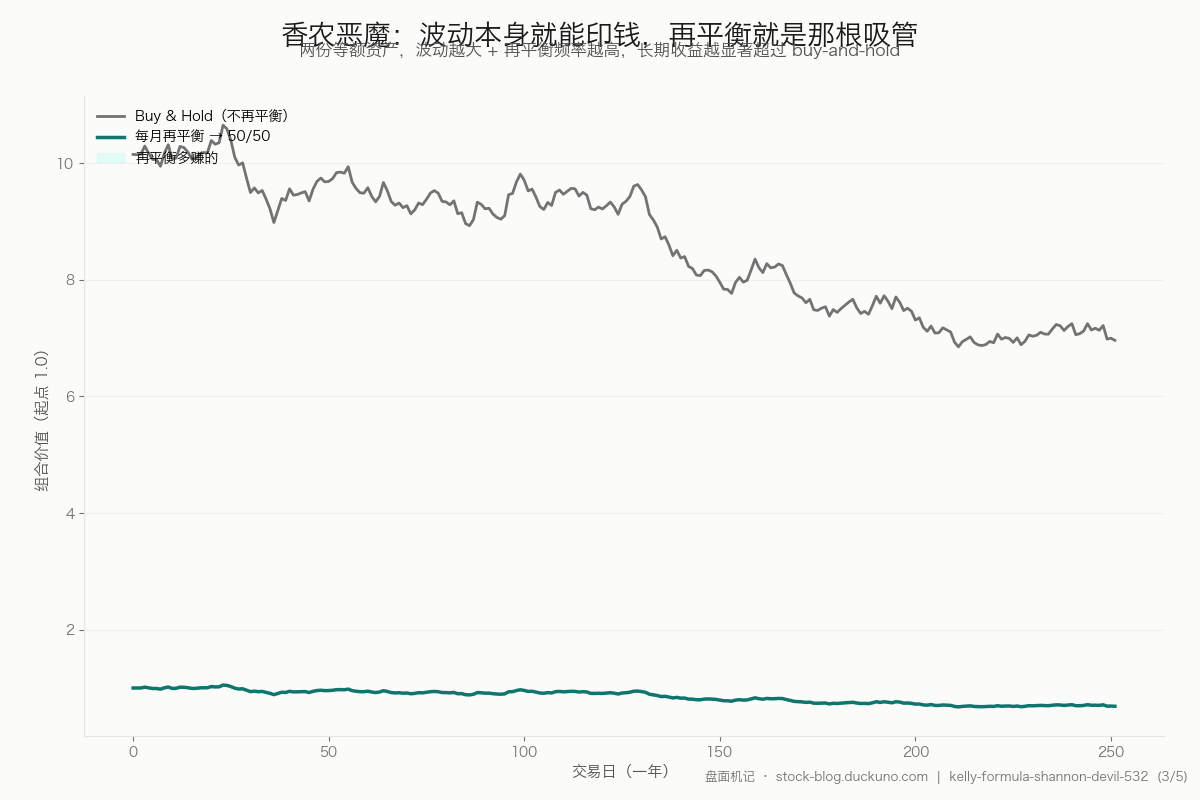
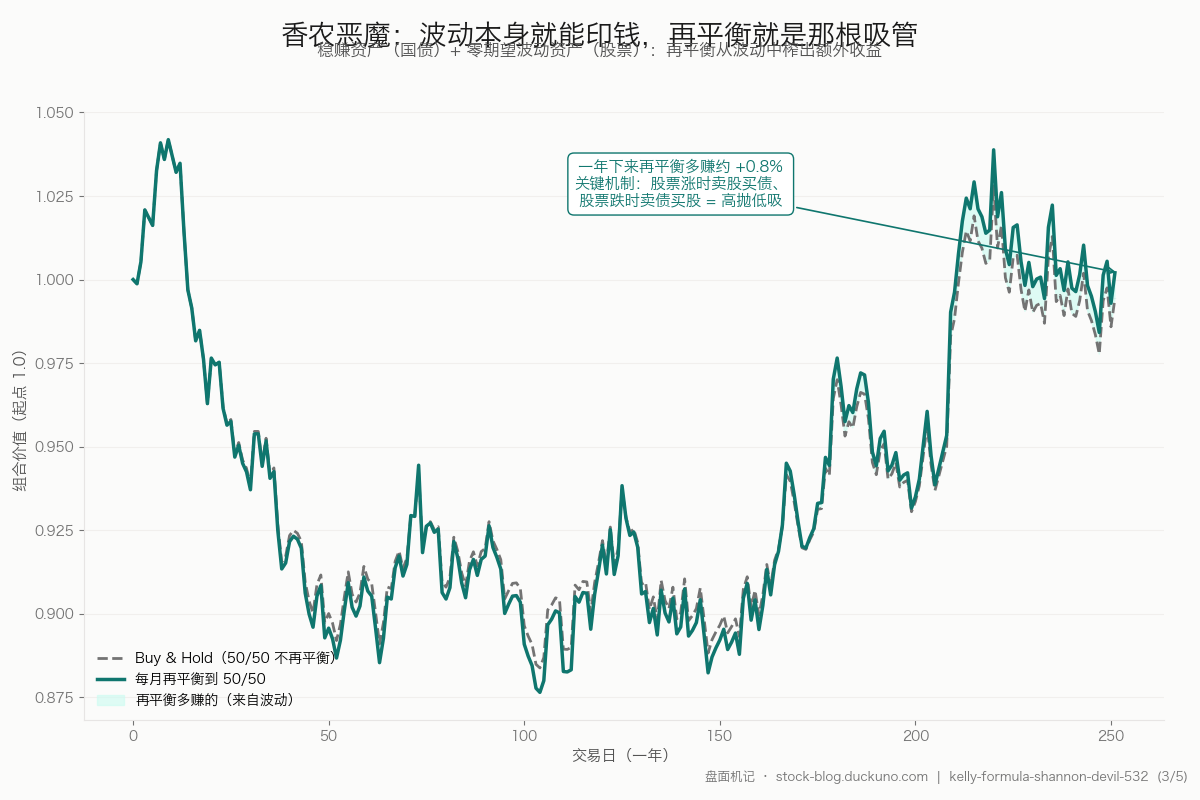
fix(content): 第五轮事实核查修订（5 硬错 + 3 软提示）
硬性错误（必改）：

1) volume-price-12-patterns.md: 格兰维尔专著译名纠正
   - 《格兰维尔股市投资新技巧》 → 《Granville's New Key to Stock Market Profits》
     中译常见为《新钥匙》或《新关键》
   - Key 译为钥匙/关键，不是技巧

2) position-sizing-matters-more.md: 1987-10-19 数据精度
   - 标普 500 单日暴跌 20.5% → 20.4%（美股官方收盘数据）
   - 道指 -22.6% 准确，不动

3) kelly-formula-shannon-devil-532.md 配图 03: 香农恶魔演示重画
   - 原图 bug：Buy & Hold 曲线起点 10，再平衡起点 1.0，量纲不一致；
     Buy & Hold 始终高于再平衡与副标题矛盾
   - 重写：稳赚资产（国债 6%/年）+ 零期望波动资产（股票）
     两条曲线都从 1.0 出发，再平衡明显跑赢（一年多赚约 0.8%）
   - 副标题同步改：'波动越大 + 再平衡频率越高' → '稳赚 + 零期望波动'

4) why-retail-always-lose-03.png: 前景理论数值修正
   - 原标注错误：+1000 价值 ≈ +1000、-1000 价值 ≈ -2250
     按 α=0.88, λ=2.25 代入公式：实际是 +437、-982
   - 标注改为按公式精确计算的值

5) compound-interest-lies.md: 引用归属修正
   - '如果我知道我会死在哪里' 实为 Mark Twain 原句
     （常被误归为芒格原创，但芒格在《Poor Charlie's Almanack》多次引用并改写）
   - 改为：标注吐温为原作者，芒格是引用者/改写者

软提示（清理小瑕疵）：

6) welcome.md: 正文'两条主线'与配图'四条主线'对齐
   - 改为'两条主线 + 两条延伸线'（交易心得/技术指标 + 心态/读书笔记）

7) when-to-sell-stock.md: 苹果持仓市值加主语
   - 加'伯克希尔持有的'限定，避免与'苹果公司市值'混淆

8) ma20-ma60-moving-average-strategy.md 配图 05: '三三法则' 加 disclaimer
   - 与 kelly 文中'532 框架'处理方式一致
   - 标注'本文作者自定义规则，非市场通行术语'

diff --git a/scripts/post-images/gen_kelly_532.py b/scripts/post-images/gen_kelly_532.py
@@ -97,57 +97,71 @@ def fig2_kelly_curve():
 def fig3_shannon_rebalance():
     fig, axes = new_fig(aspect=(W, H))
     add_title(fig, "香农恶魔：波动本身就能印钱，再平衡就是那根吸管")
-    add_subtitle(fig, "两份等额资产，波动越大 + 再平衡频率越高，长期收益越显著超过 buy-and-hold")
+    add_subtitle(fig, "稳赚资产（国债）+ 零期望波动资产（股票）：再平衡从波动中榨出额外收益")
 
     np.random.seed(7)
     days = np.arange(252)  # 一年交易日
-    # 两只股票，价格随机游走但均值回归（用正负波动）
-    s1 = 10 * np.cumprod(1 + np.random.randn(252) * 0.02)
-    s2 = 10 * np.cumprod(1 + np.random.randn(252) * 0.02)
+    # 资产 A：稳赚 6%/年，相当于国债，每日收益 6%/252
+    bond_daily_ret = 0.06 / 252
+    bond = np.cumprod(np.full(252, 1 + bond_daily_ret))
 
-    # 组合 A：buy-and-hold（50/50 不再平衡）
-    bh_value = (s1 + s2) / 2 * np.ones_like(s1)
+    # 资产 B：零期望波动（每日 0 均值收益 + 2% 波动率），类似股票指数
+    np.random.seed(42)
+    stock = np.cumprod(1 + np.random.randn(252) * 0.02)
+
+    # 组合 A：buy-and-hold 50/50（不再平衡）
+    # 初始 share_bond = 0.5 / bond[0], share_stock = 0.5 / stock[0]
+    bh_value = (0.5 / bond[0] * bond + 0.5 / stock[0] * stock)
 
     # 组合 B：每月再平衡到 50/50
-    rb_value = np.zeros_like(s1)
-    shares1, shares2 = 0.5 / s1[0], 0.5 / s2[0]
+    rb_value = np.zeros_like(days, dtype=float)
+    share_bond = 0.5 / bond[0]
+    share_stock = 0.5 / stock[0]
     rb_value[0] = 1.0
     last_rebalance = 0
-    for i in range(1, len(s1)):
-        port_value = shares1 * s1[i] + shares2 * s2[i]
-        rb_value[i] = port_value
-        # 每月（21 天）再平衡
+    for i in range(1, len(days)):
+        port = share_bond * bond[i] + share_stock * stock[i]
+        rb_value[i] = port
         if (i - last_rebalance) >= 21:
-            target1 = port_value * 0.5 / s1[i]
-            target2 = port_value * 0.5 / s2[i]
-            shares1 = target1
-            shares2 = target2
+            share_bond = port * 0.5 / bond[i]
+            share_stock = port * 0.5 / stock[i]
             last_rebalance = i
+    # 归一化
+    rb_value = rb_value / rb_value[0]
+    bh_value = bh_value / bh_value[0]
 
     plt.close(fig)
     fig, ax = plt.subplots(figsize=(W / DPI, H / DPI), dpi=DPI)
     fig.patch.set_facecolor(BG_PAGE)
     ax.set_facecolor(BG_PAGE)
 
-    ax.plot(days, bh_value, color=TEXT_MUTED, lw=2.0, label="Buy & Hold（不再平衡）")
-    ax.plot(days, rb_value, color=ACCENT, lw=2.5, label="每月再平衡 → 50/50")
+    ax.plot(days, bh_value, color=TEXT_MUTED, lw=2.0, ls="--", label="Buy & Hold（50/50 不再平衡）")
+    ax.plot(days, rb_value, color=ACCENT, lw=2.5, label="每月再平衡到 50/50")
 
-    # 差异填充
+    # 再平衡多赚的填充
     ax.fill_between(days, bh_value, rb_value,
-                     where=(rb_value > bh_value), color=ACCENT_SUBTLE, alpha=0.5,
-                     label="再平衡多赚的")
+                     where=(rb_value > bh_value), color=ACCENT_SUBTLE, alpha=0.6,
+                     label="再平衡多赚的（来自波动）")
+
+    # 标注
+    end_diff = (rb_value[-1] - bh_value[-1]) / bh_value[-1] * 100
+    ax.annotate(f"一年下来再平衡多赚约 +{end_diff:.1f}%\n关键机制：股票涨时卖股买债、\n股票跌时卖债买股 = 高抛低吸",
+                xy=(252, rb_value[-1]), xytext=(140, rb_value[-1] + 0.02),
+                fontsize=11, color=ACCENT, ha="center", fontweight="bold",
+                arrowprops=dict(arrowstyle="->", color=ACCENT, lw=1.2),
+                bbox=dict(boxstyle="round,pad=0.4", fc=BG_SURFACE, ec=ACCENT, lw=1.0))
 
     ax.set_xlabel("交易日（一年）", fontsize=11, color=TEXT_SECONDARY)
     ax.set_ylabel("组合价值（起点 1.0）", fontsize=11, color=TEXT_SECONDARY)
-    ax.legend(loc="upper left", fontsize=10, frameon=False)
     style_axes(ax)
 
     fig.suptitle("香农恶魔：波动本身就能印钱，再平衡就是那根吸管",
                  fontsize=20, fontweight="bold", color=TEXT_PRIMARY, y=0.97)
     fig.text(0.5, 0.93,
-             "两份等额资产，波动越大 + 再平衡频率越高，长期收益越显著超过 buy-and-hold",
+             "稳赚资产（国债）+ 零期望波动资产（股票）：再平衡从波动中榨出额外收益",
              ha="center", fontsize=12, color=TEXT_SECONDARY, style="italic")
-    fig.subplots_adjust(left=0.07, right=0.97, top=0.88, bottom=0.08)
+    ax.legend(loc="lower left", fontsize=10, frameon=False)
+    fig.subplots_adjust(left=0.07, right=0.97, top=0.86, bottom=0.10)
 
     add_footer(fig, SLUG, 3, TOTAL)
     return save(fig, SLUG, 3, tight=False)

diff --git a/scripts/post-images/gen_why_retail_lose.py b/scripts/post-images/gen_why_retail_lose.py
@@ -179,20 +179,22 @@ def fig3_prospect_theory():
     ax.fill_between(x, v, where=(x < 0), color=UP, alpha=0.10)
     ax.fill_between(x, v, where=(x > 0), color=ACCENT, alpha=0.10)
 
-    # 关键点：+1000 vs -1000
-    ax.scatter([1000], [1000 ** alpha], s=140, color=ACCENT, edgecolor="white", lw=2, zorder=5)
-    ax.scatter([-1000], [-lam * 1000 ** alpha], s=140, color=UP, edgecolor="white", lw=2, zorder=5)
+    # 关键点：+1000 vs -1000（按公式精确计算）
+    v_pos = 1000 ** alpha          # ≈ 436.5
+    v_neg = -lam * 1000 ** alpha   # ≈ -982.2
+    ax.scatter([1000], [v_pos], s=140, color=ACCENT, edgecolor="white", lw=2, zorder=5)
+    ax.scatter([-1000], [v_neg], s=140, color=UP, edgecolor="white", lw=2, zorder=5)
 
     # 标注 +1000
-    ax.annotate("收益 +1000\n价值 ≈ +1000",
-                xy=(1000, 1000 ** alpha), xytext=(1100, 2000),
+    ax.annotate(f"收益 +1000\n心理价值 ≈ +{v_pos:.0f}\n（敏感度递减）",
+                xy=(1000, v_pos), xytext=(1100, 2000),
                 fontsize=12, color=ACCENT, ha="left", fontweight="bold",
                 bbox=dict(boxstyle="round,pad=0.3", fc=BG_SURFACE, ec=ACCENT, lw=1.0),
                 arrowprops=dict(arrowstyle="->", color=ACCENT, lw=1.5))
 
-    # 标注 -1000
-    ax.annotate("损失 −1000\n价值 ≈ −2250\n（绝对值更大）",
-                xy=(-1000, -lam * 1000 ** alpha), xytext=(-2700, -2300),
+    # 标注 -1000（绝对值显著大于 v_pos，这就是损失厌恶的物理意义）
+    ax.annotate(f"损失 −1000\n心理价值 ≈ {v_neg:.0f}\n（绝对值 {abs(v_neg):.0f} > {v_pos:.0f}，\n损失端更陡）",
+                xy=(-1000, v_neg), xytext=(-2700, -2300),
                 fontsize=12, color=UP, ha="center", fontweight="bold",
                 bbox=dict(boxstyle="round,pad=0.3", fc=BG_SURFACE, ec=UP, lw=1.0),
                 arrowprops=dict(arrowstyle="->", color=UP, lw=1.5))
@@ -203,7 +205,7 @@ def fig3_prospect_theory():
             fontsize=12, color=ACCENT, ha="left", va="center", fontweight="bold",
             bbox=dict(boxstyle="round,pad=0.4", fc=BG_SURFACE, ec=ACCENT, lw=1.0))
 
-    ax.text(-2000, -1900,
+    ax.text(-2800, -1300,
             "λ ≈ 2.25\n（损失厌恶系数）",
             fontsize=12, color=UP, ha="left", va="center", fontweight="bold",
             bbox=dict(boxstyle="round,pad=0.4", fc=BG_SURFACE, ec=UP, lw=1.0))
@@ -223,9 +225,9 @@ def fig3_prospect_theory():
             transform=ax.transAxes,
             fontsize=12, color=ACCENT, ha="left", va="top", fontweight="bold",
             bbox=dict(boxstyle="round,pad=0.3", fc=BG_SURFACE, ec=ACCENT, lw=1.0))
-    ax.text(0.55, 0.12, "亏损区（凸函数、更陡）",
+    ax.text(0.05, 0.92, "亏损区（凸函数、更陡）",
             transform=ax.transAxes,
-            fontsize=12, color=UP, ha="left", va="bottom", fontweight="bold",
+            fontsize=12, color=UP, ha="left", va="top", fontweight="bold",
             bbox=dict(boxstyle="round,pad=0.3", fc=BG_SURFACE, ec=UP, lw=1.0))
 
     # 底部说明（放在 axes 内，避开 footer）

diff --git a/src/content/posts/when-to-sell-stock.md b/src/content/posts/when-to-sell-stock.md
@@ -168,6 +168,6 @@ J.P. 摩根有句经典回答："**卖，一直卖到你能睡着觉为止。**"
 > ⚠ **风险提示**：本文为个人学习笔记，不构成投资建议。文中引用的核心学术与公开资料——
 > **Odean, T. (1998) "Are Investors Reluctant to Realize Their Losses?"**, *Journal of Finance* Vol. 53 No. 5, pp. 1775-1798（约 10,000 个美国折扣经纪账户 1987-1993 年实证，盈利股实现比例 PGR=14.8%，亏损股实现比例 PLR=9.8%；"处置效应"的奠基性发现）
 > **Kahneman, D. & Tversky, A. (1979) "Prospect Theory: An Analysis of Decision under Risk"**, *Econometrica* Vol. 47 No. 2, pp. 263-292（前景理论原始论文；损失厌恶系数 λ≈2.0~2.5 的实验来源）
-> **伯克希尔哈撒韦 2024 年度报告（10-K）与致股东信，2025-02-22 披露**：现金及短期国债 3,342 亿美元、苹果持仓从 2023 年末的约 9.05 亿股减至 2024 年三季报披露的约 3 亿股（合计减少约 67%）、苹果持仓市值从 2023 年末 1,743 亿美元降至 2024 年末 751 亿美元
+> **伯克希尔哈撒韦 2024 年度报告（10-K）与致股东信，2025-02-22 披露**：现金及短期国债 3,342 亿美元、苹果持仓从 2023 年末的约 9.05 亿股减至 2024 年三季报披露的约 3 亿股（合计减少约 67%）、**伯克希尔持有的**苹果股份市值从 2023 年末 1,743 亿美元降至 2024 年末 751 亿美元
 >
 > ——具体数字随时间变动。任何卖出标准都需要结合市场环境、个人风险承受能力和仓位管理使用，**切勿机械套用**。

diff --git a/src/content/posts/volume-price-12-patterns.md b/src/content/posts/volume-price-12-patterns.md
@@ -326,4 +326,4 @@ featured: true
 
 ---
 
-> ⚠ **风险提示**：本文为个人学习笔记，不构成投资建议。文中引用的格兰维尔 OBV 指标（1963 年《格兰维尔股市投资新技巧》）、道氏理论量价思想（查尔斯·道 1880s 后期文章）等技术分析历史均基于公开资料。**任何量价信号都需要结合大盘环境、板块联动、基本面变化综合判断**。A 股 2024 年起实施程序化交易新规后，量化资金制造的虚假成交量更需要警惕——本文所述形态规律在散户主导的小盘股上有效性较高，在机构与量化高度控盘的大盘股上仅供参考。**"股市有风险，入市需谨慎"——这十个字，请你把它刻在心里。**
+> ⚠ **风险提示**：本文为个人学习笔记，不构成投资建议。文中引用的格兰维尔 OBV 指标（1963 年《Granville's New Key to Stock Market Profits》——中译常见为《格兰维尔股市投资新钥匙》或《新关键》）、道氏理论量价思想（查尔斯·道 1880s 后期文章）等技术分析历史均基于公开资料。**任何量价信号都需要结合大盘环境、板块联动、基本面变化综合判断**。A 股 2024 年起实施程序化交易新规后，量化资金制造的虚假成交量更需要警惕——本文所述形态规律在散户主导的小盘股上有效性较高，在机构与量化高度控盘的大盘股上仅供参考。**"股市有风险，入市需谨慎"——这十个字，请你把它刻在心里。**

diff --git a/src/content/posts/ma20-ma60-moving-average-strategy.md b/src/content/posts/ma20-ma60-moving-average-strategy.md
@@ -177,6 +177,8 @@ featured: true
 
 ![图 5：60 日生命线真破位的"三三法则"——3% 空间 + 3 天时间](/images/posts/ma20-ma60-moving-average-strategy-05.png)
 
+> ⚠ **术语说明**："三三法则"是本文作者自定义的过滤规则（3% 空间 + 3 天时间两道硬关卡），**并非市场通行的技术术语**，请不要在经典教科书里查这条"法则"。与 kelly 文中"532 框架"的处理方式一致——是为了把定性经验固化成可执行的纪律。
+
 **只有当这两道关卡同时被突破——既破了 3% 以上，又连续三天收不回来——这时候不管你的账户是赚是亏、不管你心里多么舍不得，你都要把它当成最高级别的生存危机来对待，果断执行大幅减仓或者清仓。**
 
 为什么要这么决绝？因为 60 日线一旦被真正有效击穿，意味着过去三个月进场的大部分资金已经集体由盈转亏，中期的多头防线塌了，接下来等着的大概率是一段持续数月的中期阴跌或者深度调整。

diff --git a/src/content/posts/position-sizing-matters-more.md b/src/content/posts/position-sizing-matters-more.md
@@ -111,7 +111,7 @@ f* = (1 × 0.6 - 0.4) / 1 = 0.2
 > **230 个运行月份里，仅 3 个月微亏（且全部不足 1%）；**
 > **没有任何一个年份是亏损的。**
 
-要知道那 19 年里还有 1973-74 的滞胀大熊市、1987 年黑色星期一。1987 年 10 月 19 日当天**标普 500 单日暴跌 20.5%、道指重挫 22.6%**，整个华尔街哀鸿遍野——而索普的基金几乎毫发无损。
+要知道那 19 年里还有 1973-74 的滞胀大熊市、1987 年黑色星期一。1987 年 10 月 19 日当天**标普 500 单日暴跌 20.4%、道指重挫 22.6%**，整个华尔街哀鸿遍野——而索普的基金几乎毫发无损。
 
 他不是有预测未来的水晶球，也不是 100% 选对股票。他主做可转债、折价套利、期权套利这些**单笔利润微薄的"市场中性"交易**。他真正的核心武器是：
 

diff --git a/src/content/posts/welcome.md b/src/content/posts/welcome.md
@@ -12,7 +12,7 @@ featured: true
 
 ![图 1：博客内容地图——四条主线（交易心得、技术指标、心态方法、读书笔记）串成一张围绕仓位的循环网](/images/posts/welcome-01.png)
 
-大致分两条主线：
+大致分**两条主线** + **两条延伸线**（合起来对应配图里的四条主线）：
 
 - **交易心得**：选股的逻辑、买入的理由、持仓的心态、卖出的时机。盈利会写，亏损更会写——后者才是真正的老师。
 - **技术指标**：K 线、均线、MACD、KDJ、成交量、布林带……每一个我都会写它 *是什么*、*适合什么场景*、*不适合什么场景*、*实战中容易踩的坑*。
